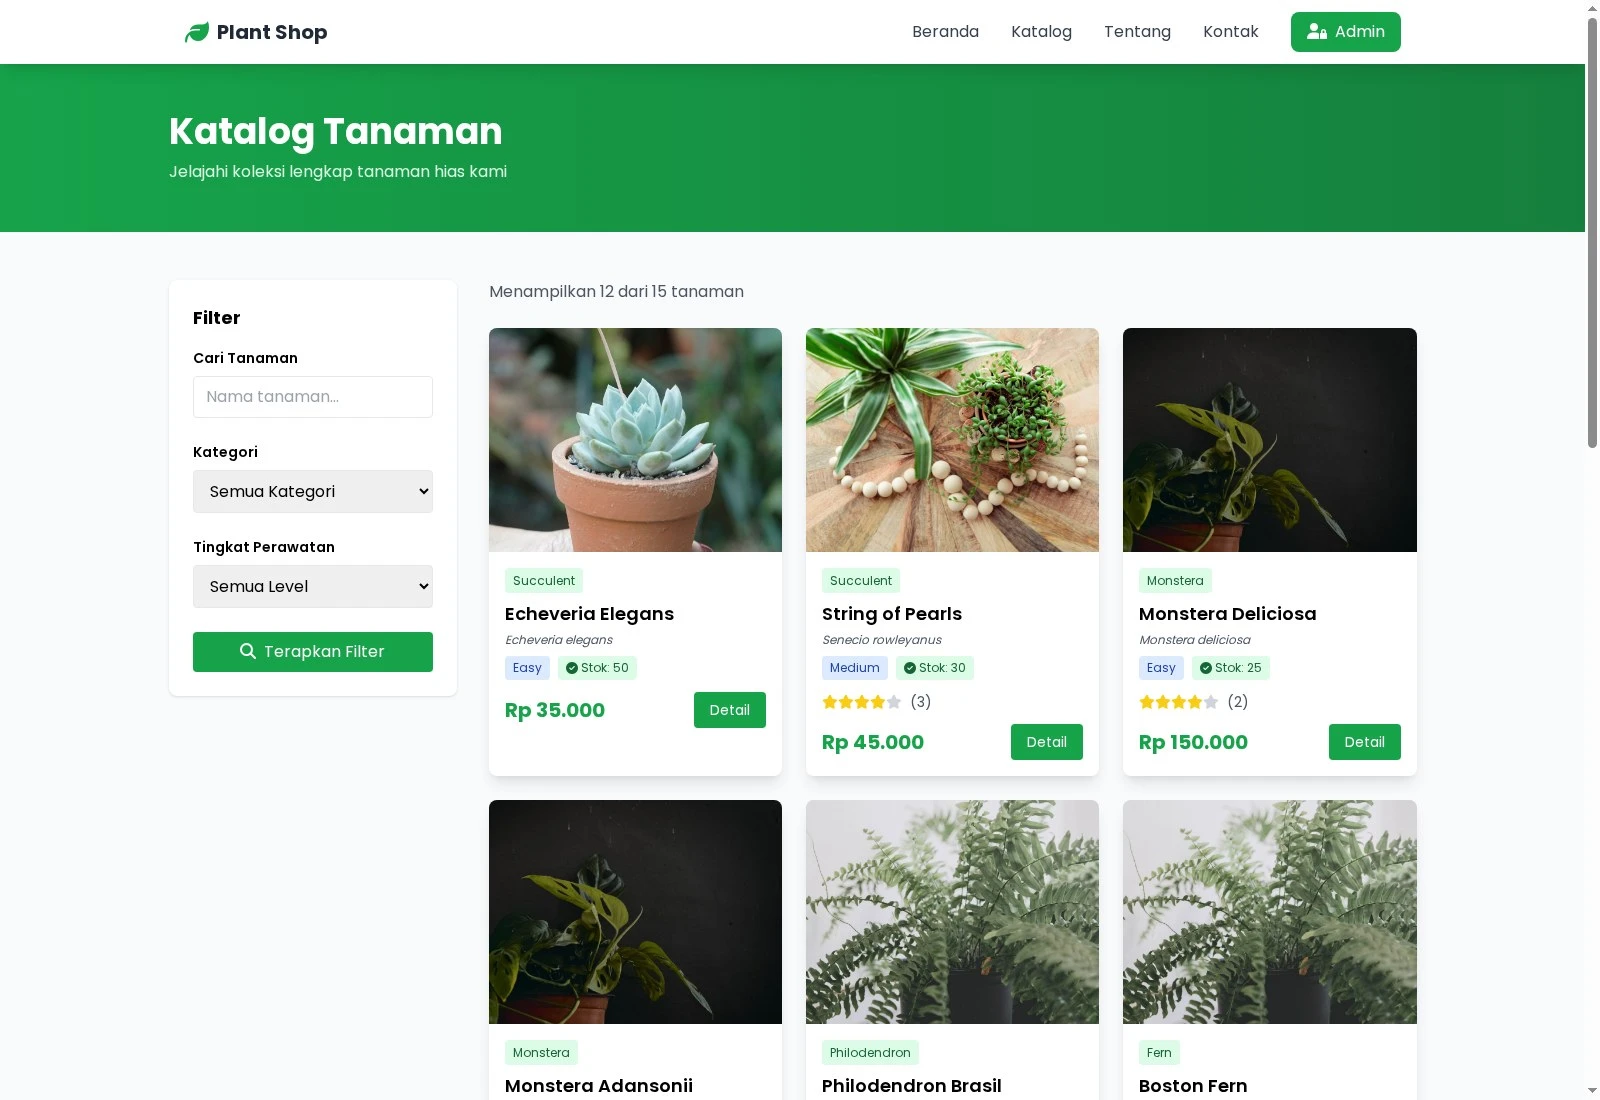
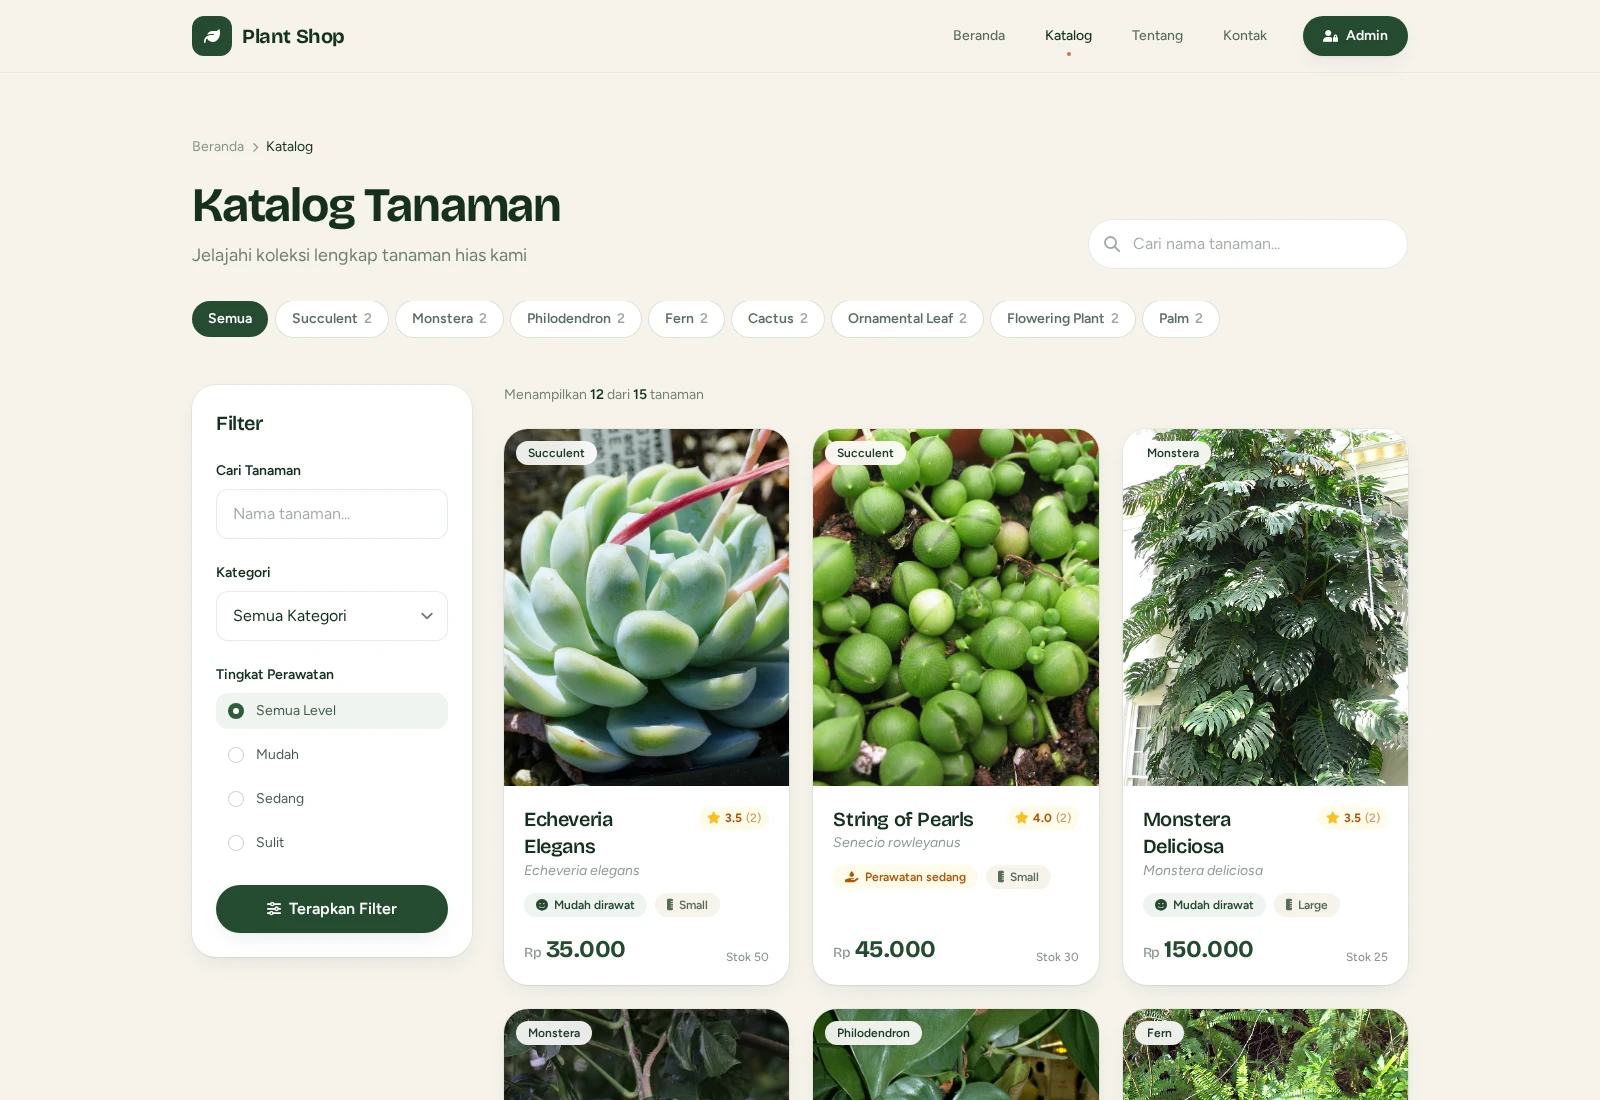
Refresh Plant Shop screenshots from redesign branch

diff --git a/wave/src/content/projects/plant-shop.md b/wave/src/content/projects/plant-shop.md
@@ -10,18 +10,18 @@ technologies: ["PHP", "Laravel 11", "Filament 3", "MySQL", "Tailwind CSS"]
 isPhoto: false
 draft: false
 images:
-  - src: "images/projects/showcase/plant-dashboard.webp"
-    alt: "Plant Shop Management dashboard with revenue charts and inventory indicators."
-    caption: "Local dashboard using the repository seed data, from commit 65028d1."
-  - src: "images/projects/showcase/plant-inventory.webp"
-    alt: "Plant Shop Management inventory with loaded plant photographs, categories, stock, and care levels."
-    caption: "Plant inventory with demonstration records and representative plant photographs."
   - src: "images/projects/showcase/plant-storefront.webp"
-    alt: "Public Plant Shop homepage with a peace lily photograph, catalog link, and shop services."
-    caption: "Public storefront introducing the shop and its plant collection."
+    alt: "Redesigned Plant Shop homepage with a curated hero, catalog call to action, and service highlights."
+    caption: "Redesigned public storefront from the redesign-and-catalog-photo branch."
   - src: "images/projects/showcase/plant-catalog.webp"
-    alt: "Public plant catalog with product photographs, prices, stock, categories, and care-level filters."
-    caption: "Customer-facing catalog with plant photographs, product information, and filter controls."
+    alt: "Redesigned plant catalog with species photographs, prices, stock, categories, ratings, and care-level filters."
+    caption: "Customer-facing catalog with real species photographs and expanded filtering."
+  - src: "images/projects/showcase/plant-detail.webp"
+    alt: "Plant detail page for Monstera Deliciosa with a species photograph, price, stock, care details, and customer rating."
+    caption: "Product detail view with plant care information and review summary."
+  - src: "images/projects/showcase/plant-about.webp"
+    alt: "Plant Shop about page with a seedling photograph, company story, and experience callout."
+    caption: "Redesigned about page presenting the shop's story and service promise."
 ---
 
 ## The idea
@@ -38,4 +38,4 @@ Running a plant shop involves more than maintaining a product catalog. Stock, su
 
 ## About the preview
 
-These captures use an isolated local database populated by the repository's seeders. They show the latest inspected commit, `65028d1` (8 November 2026), including its updated menu seeder. All displayed records are demonstration data. Representative stock plant photographs were added to the local demo, including the homepage hero; they do not identify every listed cultivar. The source repository is private.
+These captures use an isolated local database populated by the repository's seeders. They show commit `aadff1b` from the `redesign-and-catalog-photo` branch (12 November 2026). All displayed records are demonstration data. The catalog uses the species photographs configured by that branch; the source repository is private.

diff --git a/docs/plant-shop-captures.md b/docs/plant-shop-captures.md
@@ -1,19 +1,7 @@
 # Plant Shop screenshot refresh
 
-Four real browser captures show the local application from `defrein/management-plant-shop` commit `65028d1`: dashboard, plant inventory, public homepage, and public catalog. Images are 1600 pixels wide, encoded as WebP at quality 90. Dashboard and inventory replace the previous captures; storefront and catalog extend the project gallery.
+Four real browser captures show the public application from `defrein/management-plant-shop` branch `redesign-and-catalog-photo`, commit `aadff1b`: storefront, catalog, Monstera product detail, and about page. Images are 1600 pixels wide and encoded as WebP at quality 90. The captures replace the earlier admin-focused gallery so the portfolio preview leads with the redesigned customer experience.
 
-The repository seed data contains no uploaded media. The local preview now has a working public storage link and representative photographs attached through Spatie Media Library. Both `image` (admin) and `images` (public templates) collections are populated, together with a gallery image. The homepage's unrelated external stock image is replaced with a locally served peace lily photograph for the demo. No interface is painted over or reconstructed. All inventory, homepage, and catalog images were checked for successful loading before capture.
+The app ran locally against a freshly seeded database with debug mode disabled. Every image in the captured viewport was decoded successfully before capture; browser checks reported no failed requests or page errors. No interface was painted over or reconstructed.
 
-Photography illustrates demo content and does not identify every listed cultivar. These initialization and asset changes stay in the isolated demo checkout; no changes are pushed to the private source application.
-
-## Photograph sources
-
-Photos are downloaded locally, so portfolio screenshots do not depend on external image hosts. Source pages, under the [Pexels license](https://www.pexels.com/license/):
-
-- [Potted fern — Joshua Mcknight](https://www.pexels.com/photo/green-plant-on-black-pot-3854749/)
-- [Potted monstera](https://www.pexels.com/photo/potted-monstera-plant-21529566/)
-- [Echeveria in a terracotta pot](https://www.pexels.com/photo/close-up-of-echeveria-succulent-in-terracotta-pot-33306623/)
-- [String of pearls arrangement](https://www.pexels.com/photo/green-and-brown-round-fruits-on-brown-wooden-table-10828062/)
-- [Potted cactus](https://www.pexels.com/photo/green-cactus-plant-in-pot-2119597/)
-- [Cactus close-up](https://www.pexels.com/photo/close-up-photo-of-a-potted-cactus-12383257/)
-- [Peace lily](https://www.pexels.com/photo/peace-lily-flower-20780059/)
+The branch supplies catalog species photographs from Wikimedia Commons and hero/about imagery from Unsplash. Photography illustrates demonstration content and does not identify every listed cultivar. The source repository is private.

diff --git a/docs/project-showcase.md b/docs/project-showcase.md
@@ -5,7 +5,7 @@ Five projects added to the current Wave portfolio in November 2026. Portfolio v4
 ## Sources inspected
 
 - ENEXRE: `defrein/enexre`, `204b5bde982a1207ef806933857f3cf8a49ec672`.
-- Plant Shop Management: `defrein/management-plant-shop`, `65028d1` (latest inspected commit, 8 November 2026; “change menu seeder”). Private source is not linked from the public project page.
+- Plant Shop Management: `defrein/management-plant-shop`, branch `redesign-and-catalog-photo`, `aadff1b` (latest inspected commit, 12 November 2026; “Redesign public pages and add catalog plant photos”). Private source is not linked from the public project page.
 - Better JATS Viewer: `openjournalteam/jats-viewer`, `2f6c1482ed5b7ee70e6390dc8e90561a9af8e2c7`.
 - JATS Scholar: `openjournalteam/jats-scholar`, `73f042804d0f3c1a2e00ee1297da8a75d1e9f328`; screenshots from the public site, https://scholar.jatseditor.com. The public deployment's commit was not independently verified.
 - Journal Metadata Extractor: `defrein/metadata_extractor`, `9c801283b6aa5574bb23cb3e7f44b5d7d172a8f9`.
